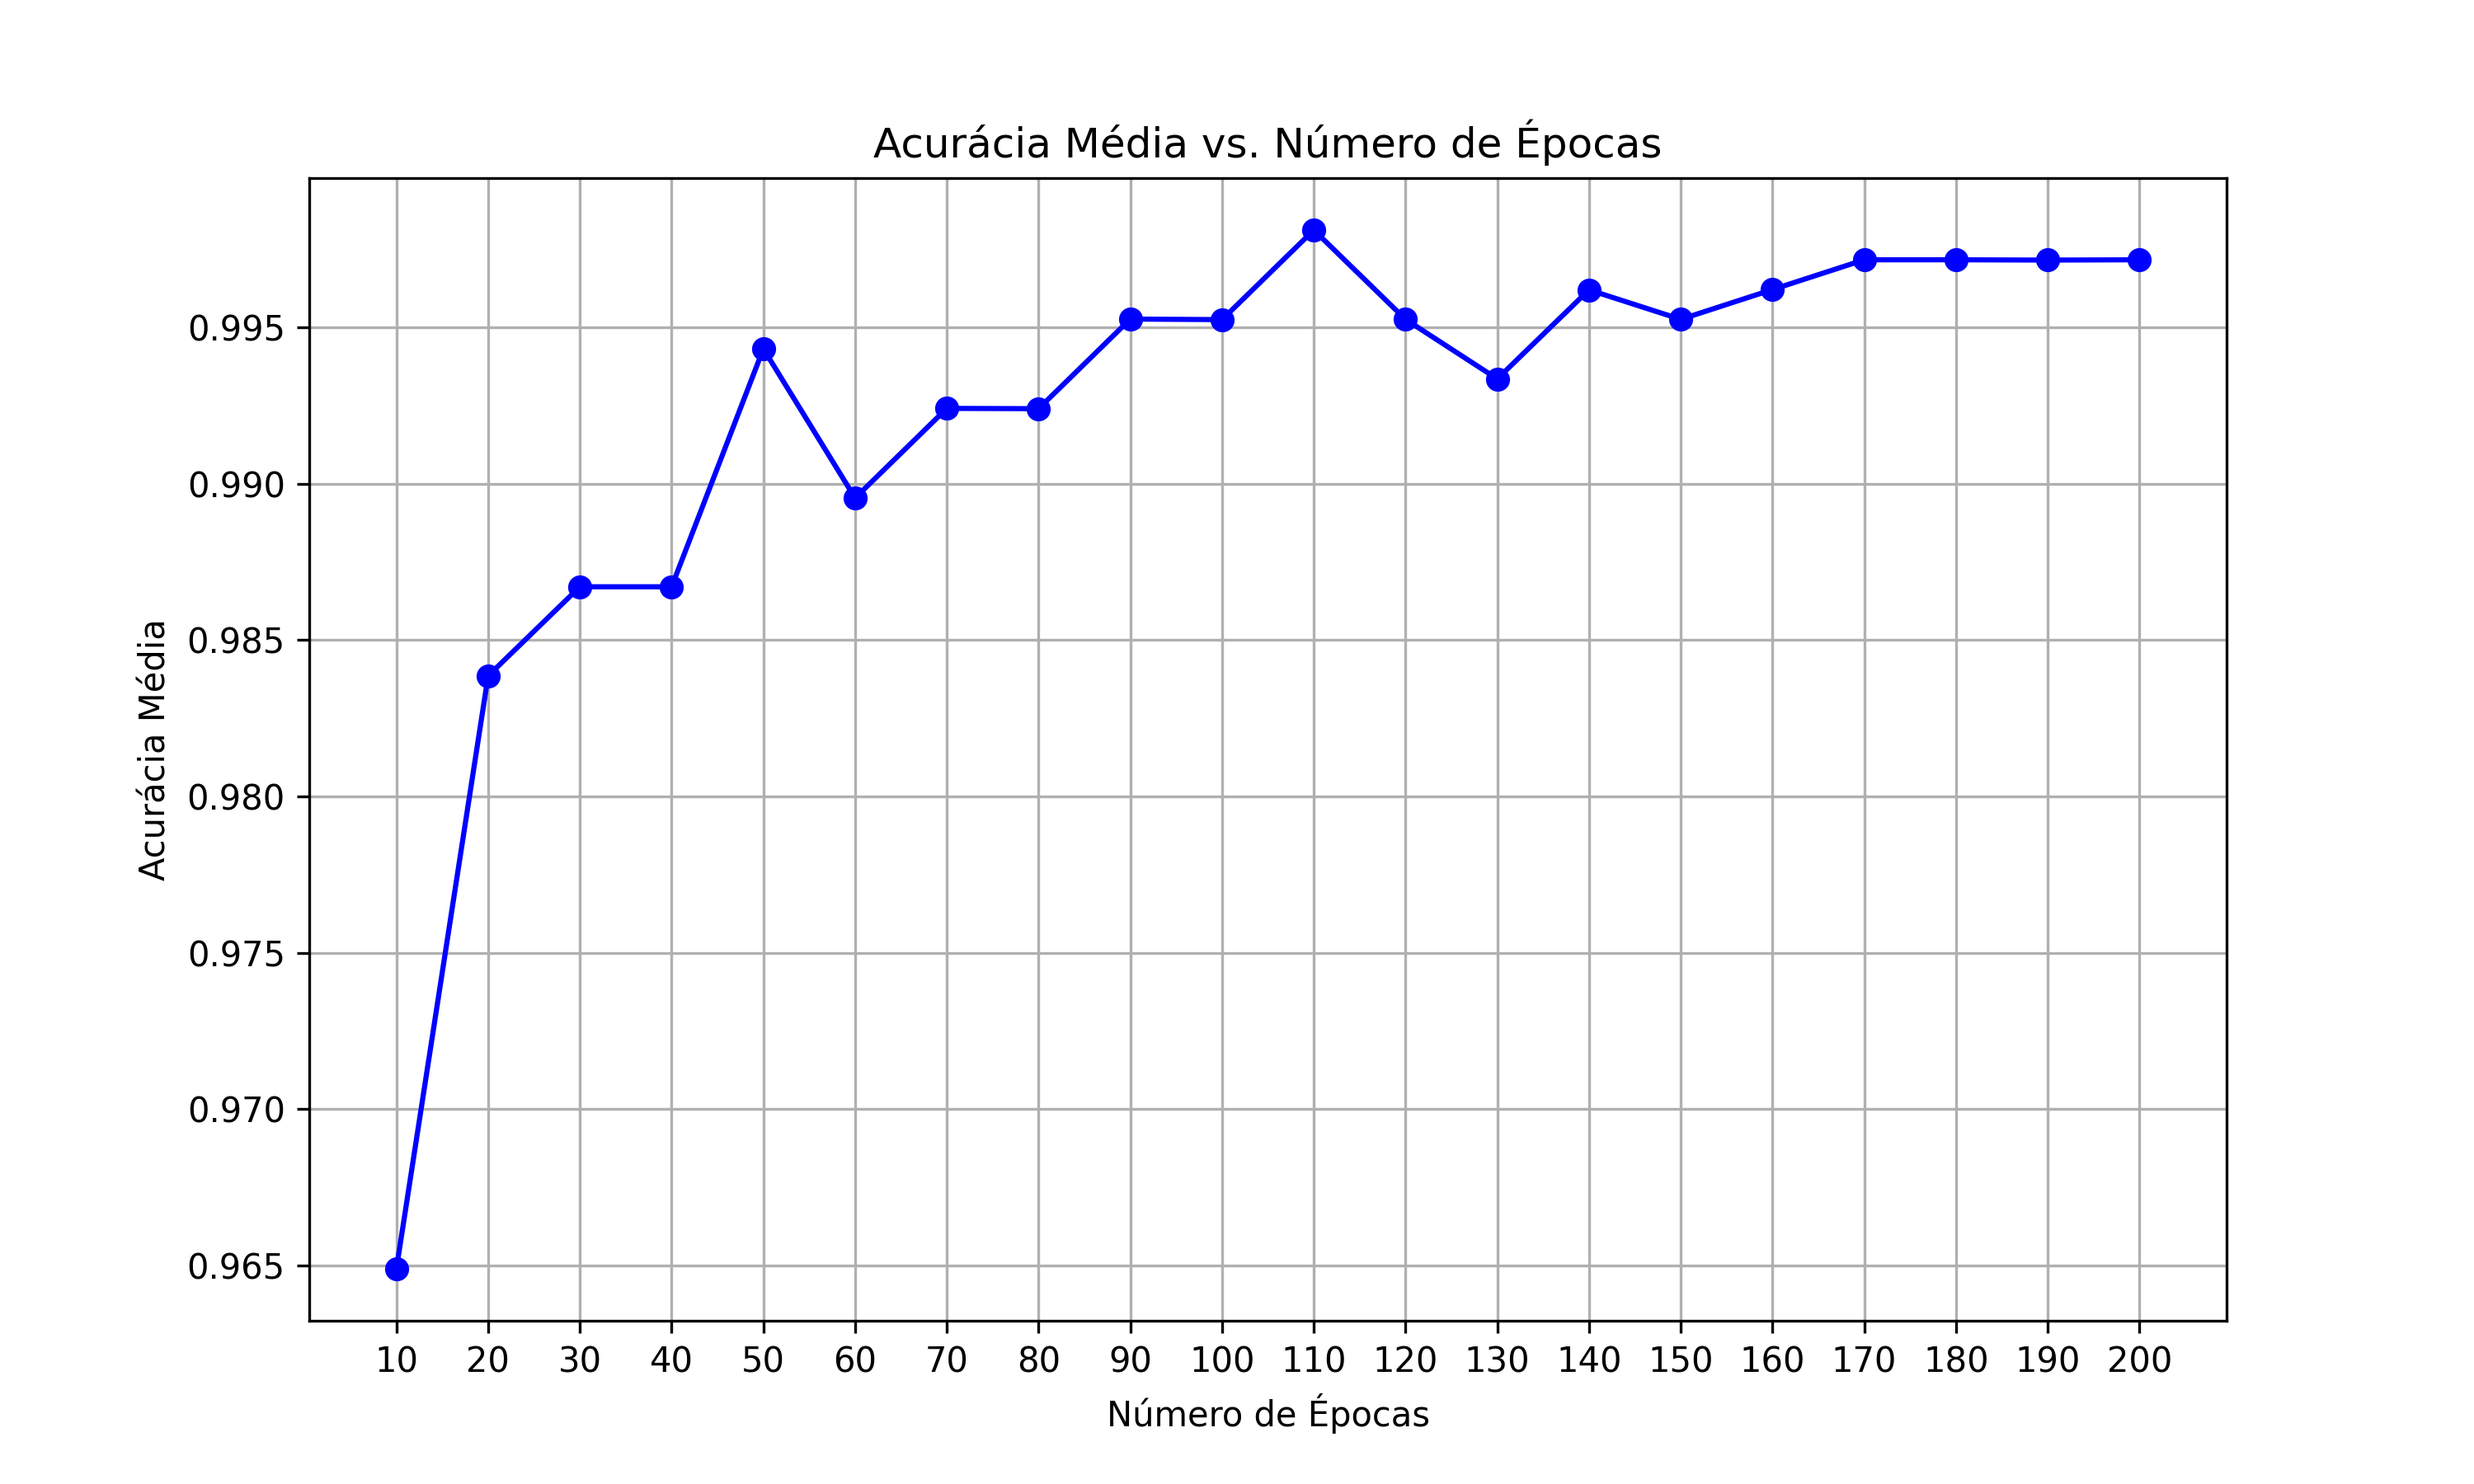
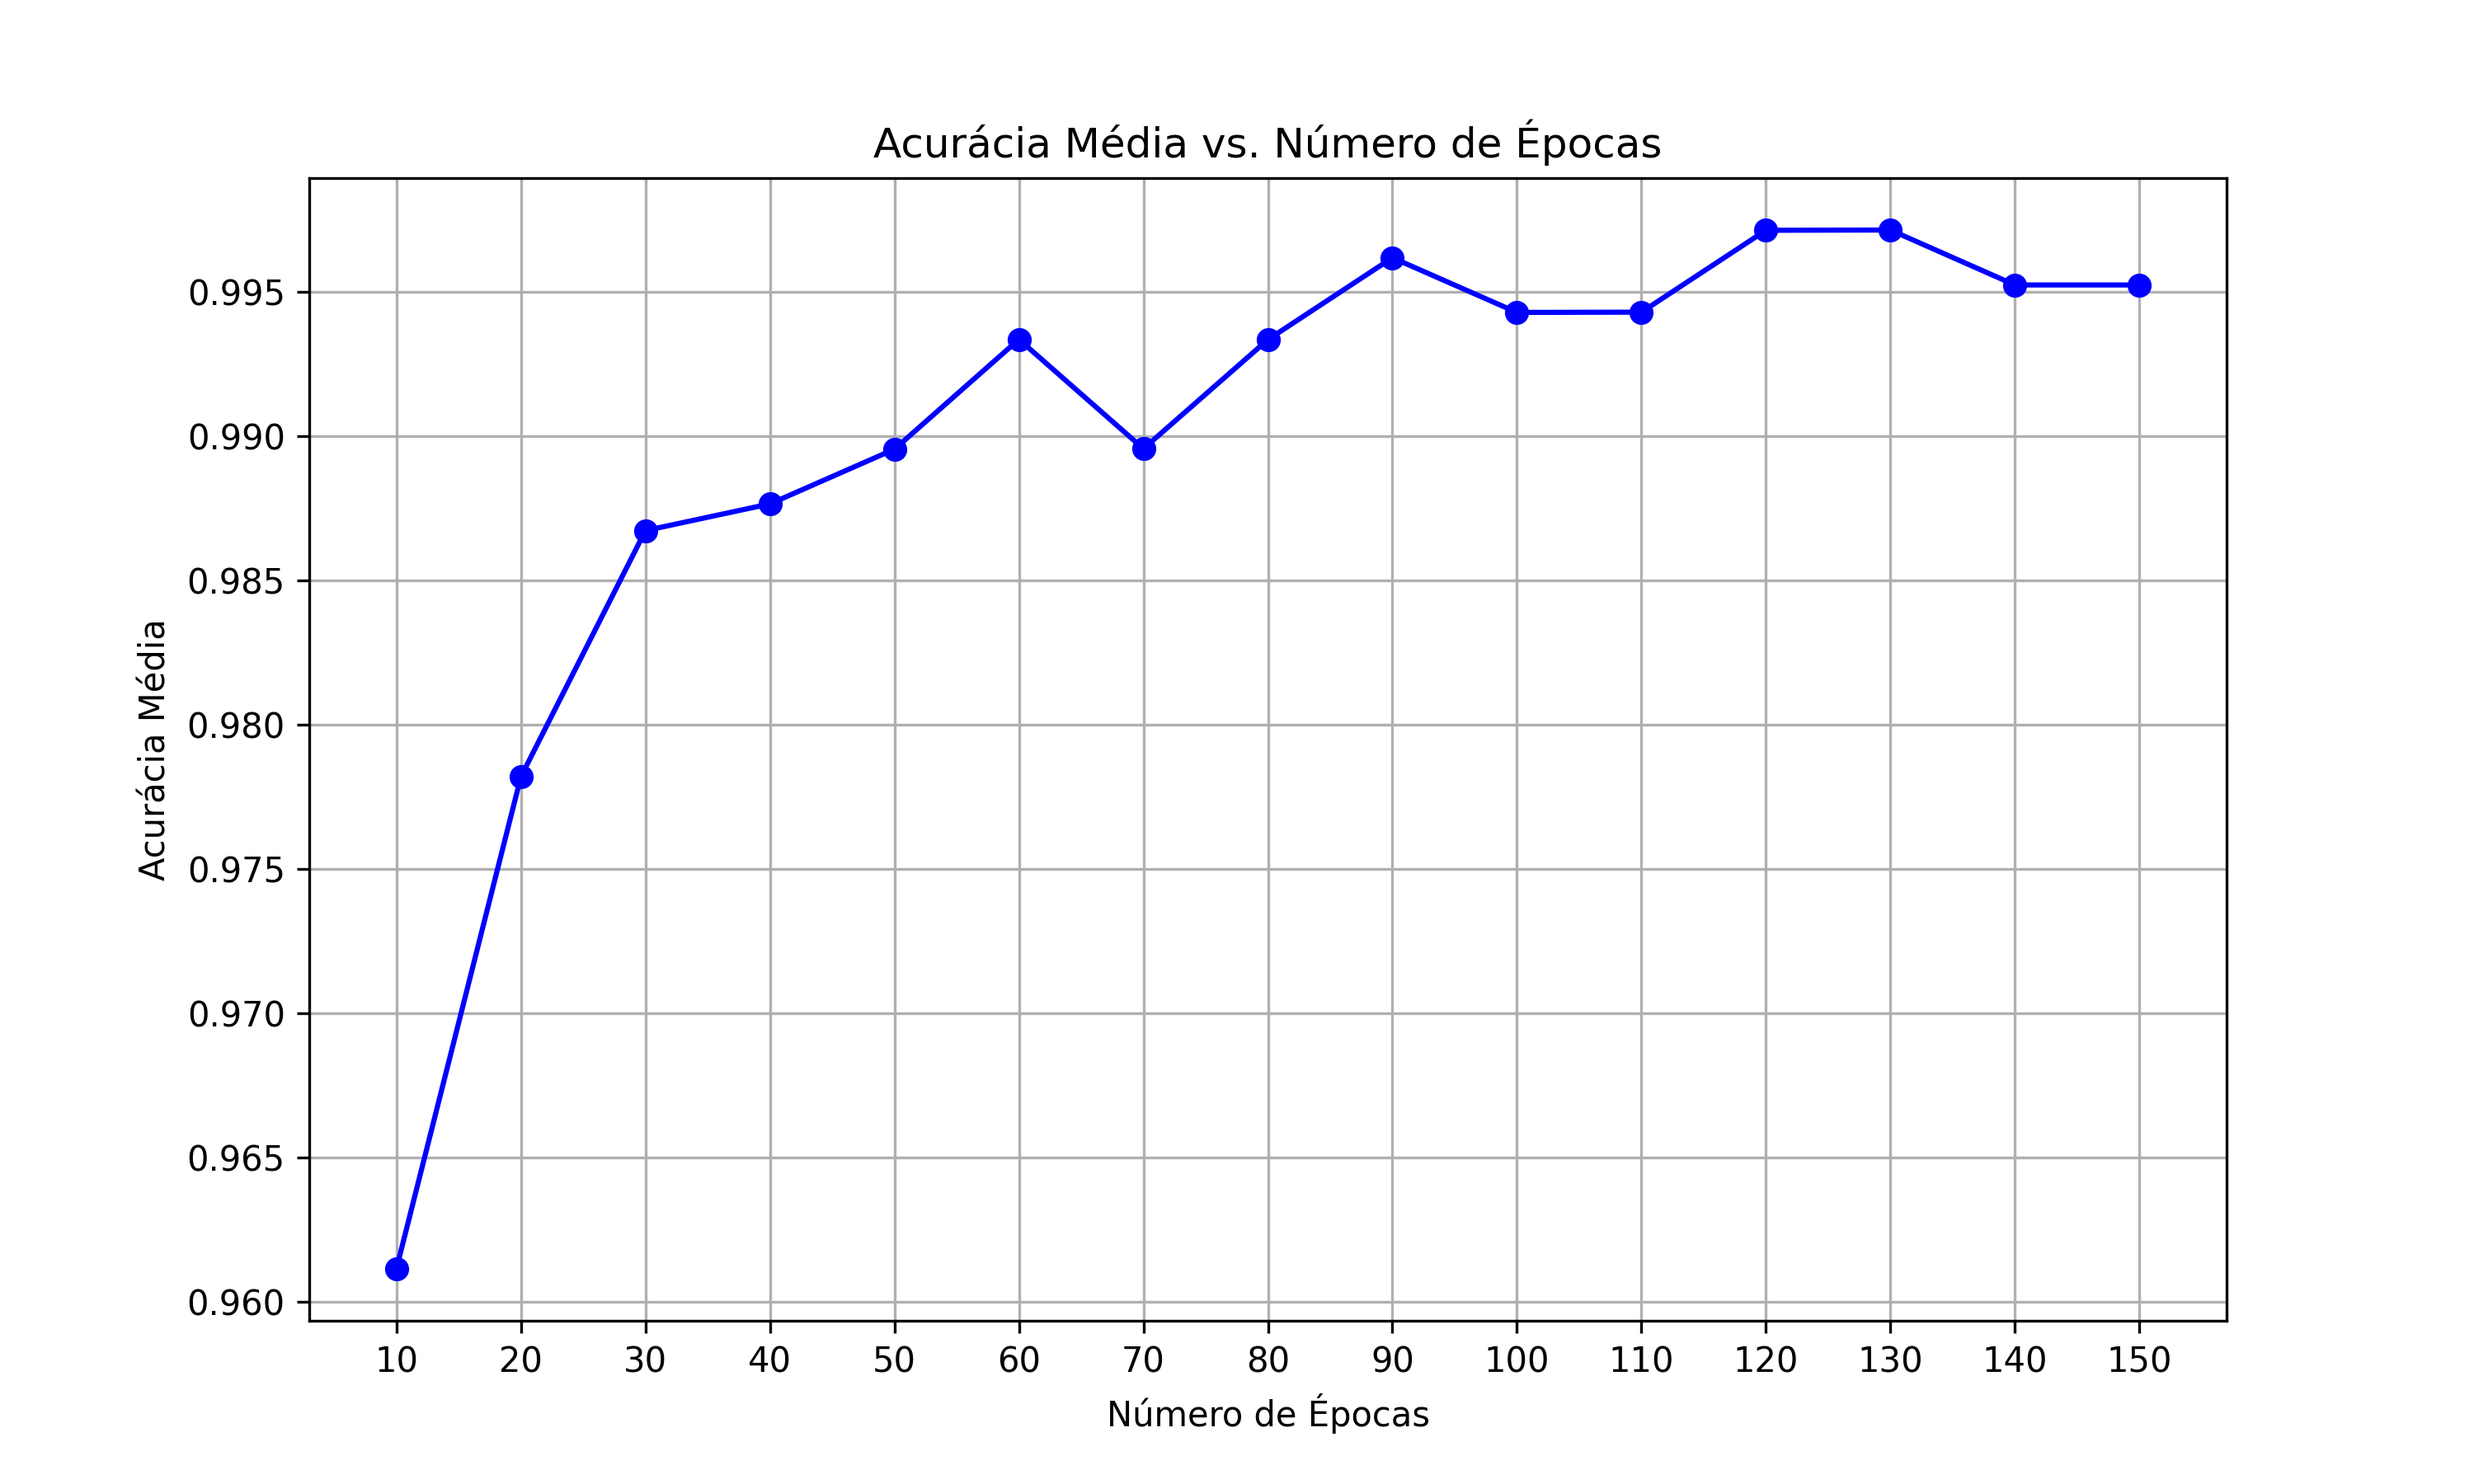
refat(NeuralNetworkService): cross_validate_model use StratifiedKFold

diff --git a/app/metrics/evaluate_accuracy.py b/app/metrics/evaluate_accuracy.py
@@ -1,0 +1,80 @@
+from service.NeuralNetwork import NeuralNetworkService, DATA_PATH
+from service.DataPreprocessor import DataPreprocessor
+from service.utils import balance_data
+from models.config import PLOT_FOLDER
+import matplotlib.pyplot as plt
+import numpy as np
+
+def plot_accuracy_by_epochs(show_plot: bool = False):
+    try:
+        # Armazena as épocas e as acurácias médias correspondentes
+        epochs_list = list(range(10, 151, 10))
+        accuracies_list = []
+
+        # Inicializa o DataPreprocessor para carregar os dados
+        preprocessor = DataPreprocessor(DATA_PATH)
+        X, y = preprocessor.initialize()
+
+        for epochs in epochs_list:
+            nn_service = NeuralNetworkService(epochs=epochs)
+
+            # Realiza a validação cruzada e obtém as acurácias
+            accuracies = nn_service._cross_validate_model(X, y)
+
+            # Calcula a acurácia média e adiciona à lista
+            mean_accuracy = np.mean(accuracies)
+            accuracies_list.append(mean_accuracy)
+            
+            print(f'Épocas: {epochs}, Acurácia média: {mean_accuracy}')
+
+        # Gera o gráfico
+        plt.figure(figsize=(10, 6))
+        plt.plot(epochs_list, accuracies_list, marker='o', linestyle='-', color='b')
+        plt.title('Acurácia Média vs. Número de Épocas')
+        plt.xlabel('Número de Épocas')
+        plt.ylabel('Acurácia Média')
+        plt.xticks(epochs_list)
+        plt.grid(True)
+        plt.savefig(f'{PLOT_FOLDER}/accuracy_by_epochs.png', format='png', dpi=300)
+        
+        if show_plot:
+            plt.show()
+            
+    except Exception as e:
+        raise RuntimeError(f'Erro: \n{e}\n')
+
+
+def evaluate_accuracy_by_sample_size(data_path: str, start: int, end: int, step: int, show_plot: bool = False):
+    try:
+        preprocessor = DataPreprocessor(data_path)
+        X_full, y_full = preprocessor.initialize()
+
+        sample_sizes = range(start, end + 1, step)
+        accuracies_list = []
+
+        for size in sample_sizes:
+            X_sample = X_full.sample(n=size, random_state=42)
+            y_sample = y_full.loc[X_sample.index]
+
+            nn_service = NeuralNetworkService()
+            accuracies = nn_service._cross_validate_model(X_sample, y_sample)
+
+            mean_accuracy = np.mean(accuracies)
+            accuracies_list.append(mean_accuracy)
+
+            print(f'Instâncias: {size}, Acurácia média: {mean_accuracy}')
+
+        plt.figure(figsize=(10, 6))
+        plt.plot(sample_sizes, accuracies_list, marker='o', linestyle='-', color='b')
+        plt.title('Acurácia em Função da Quantidade de Instâncias')
+        plt.xlabel('Número de Instâncias')
+        plt.ylabel('Acurácia Média')
+        plt.xticks(sample_sizes)
+        plt.grid(True)
+        plt.savefig(f'{PLOT_FOLDER}/accuracy_by_sample_size.png', format='png', dpi=300)
+        
+        if show_plot:
+            plt.show()
+
+    except Exception as e:
+        raise RuntimeError(f'Erro: \n{e}\n')

diff --git a/app/service/NeuralNetwork.py b/app/service/NeuralNetwork.py
@@ -1,9 +1,11 @@
-from service.DataPreprocessor import DataPreprocessor
 from models.config import UPLOADS_FOLDER, PKL_FOLDER, DB_FOLDER, CATEGORICAL_COLS
 from models.ResponseEntity import ResponseEntity
+from service.DataPreprocessor import DataPreprocessor
+from service.utils import balance_data
 from keras.api.models import Sequential, load_model
 from keras.api.layers import Dense, Dropout, Input
-from sklearn.model_selection import KFold
+from sklearn.model_selection import KFold, StratifiedKFold
+from collections import Counter
 from sqlalchemy.orm import Session
 from typing import List
 import joblib as jb
@@ -71,13 +73,18 @@ class NeuralNetworkService:
         :return: Lista de acurácias para cada divisão.
         """
         try:
-            kfold = KFold(n_splits=self.n_splits, shuffle=True, random_state=42)
+            # kfold = KFold(n_splits=self.n_splits, shuffle=True, random_state=42)
+            
+            # StratifiedKFold mantém a proporção das classes em cada fold
+            skf = StratifiedKFold(n_splits=self.n_splits, shuffle=True, random_state=42)
             accuracies = []
 
-            for train_index, test_index in kfold.split(X):
+            for train_index, test_index in skf.split(X, y):
                 model = self._create_model(X.shape[1])
                 X_train, X_test = X.iloc[train_index], X.iloc[test_index]
                 y_train, y_test = y.iloc[train_index], y.iloc[test_index]
+
+            
                 model.fit(X_train, y_train, epochs=self.epochs, batch_size=self.batch_size, verbose=self.verbose)
                 _, accuracy = model.evaluate(X_test, y_test, verbose=0)
                 accuracies.append(accuracy)
@@ -120,7 +127,7 @@ class NeuralNetworkService:
         
         except Exception as e:
             raise ValueError(f'Erro ao pré-processar novos dados: {e}')
-
+        
 
     def predict_from_csv(self, csv_path: str, label_encoders, onehot_encoder, scaler) -> np.ndarray:
         """
@@ -205,7 +212,7 @@ class NeuralNetworkService:
         except Exception as e:
             raise RuntimeError(f'Erro ao fazer a previsão a partir do banco de dados: {e}')
         
-    
+           
     def train_and_save_model(self):
         """
         Treina o modelo final com todos os dados e salva o modelo treinado.

diff --git a/app/controller/routes.py b/app/controller/routes.py
@@ -1,10 +1,7 @@
 from fastapi import APIRouter, HTTPException, status, Depends
 from models.ResponseItem import ResponseItem
-from models.ResponseEntity import ResponseEntity
-from metrics.plot_accuracy_by_epochs import plot_accuracy_by_epochs
-from metrics.evaluate_accuracy_by_sample_size import evaluate_accuracy_by_sample_size
+from metrics.evaluate_accuracy import plot_accuracy_by_epochs, evaluate_accuracy_by_sample_size
 from service.NeuralNetwork import NeuralNetworkService
-from service.utils import create_upload_folder, save_csv, delete_csv
 from service.database import get_db, create
 from sqlalchemy.orm import Session
 import numpy as np
@@ -16,7 +13,6 @@ neural_network_service = NeuralNetworkService()
 @router.post('/respostas', status_code=status.HTTP_201_CREATED)
 async def upload_data(data: ResponseItem, db: Session = Depends(get_db)):
     try:
-        # Cria pasta uploads se nao existir
         id = create(db, data)
 
         return {'status': 'received', 'qchat_id': id, 'data': data}

diff --git a/app/service/DataPreprocessor.py b/app/service/DataPreprocessor.py
@@ -1,10 +1,7 @@
 from sklearn.preprocessing import LabelEncoder, OneHotEncoder, StandardScaler
-# from sklearn.model_selection import train_test_split
-from models.config import PKL_FOLDER, CATEGORICAL_COLS, LABEL_COL, DB_FOLDER
+from models.config import PKL_FOLDER, CATEGORICAL_COLS, LABEL_COL
 import pandas as pd
-import numpy as np
 import joblib as jb
-import os
 
 class DataPreprocessor:
     def __init__(self, filepath: str):
@@ -81,7 +78,6 @@ class DataPreprocessor:
 
         except Exception as e:
             raise RuntimeError(f'Erro ao tentar normalizar a coluna Age_Mons: {e}')
-
 
     def initialize(self):
         try:

diff --git a/app/service/utils.py b/app/service/utils.py
@@ -1,5 +1,7 @@
-import os
+from imblearn.over_sampling import SMOTE
 import pandas as pd
+import os
+
 
 def create_upload_folder(folder_name):
     # Se pasta não existir, cria uma
@@ -42,3 +44,13 @@ def delete_csv(path):
     if os.path.exists(path):
         os.remove(path)
 
+
+def balance_data(X, y):
+    try:
+        smote = SMOTE(random_state=42)
+        X_resampled, y_resampled = smote.fit_resample(X, y)
+
+        return X_resampled, y_resampled
+    
+    except Exception as e:
+        raise RuntimeError(f'Erro no balanceamento dos dados: {e}')
